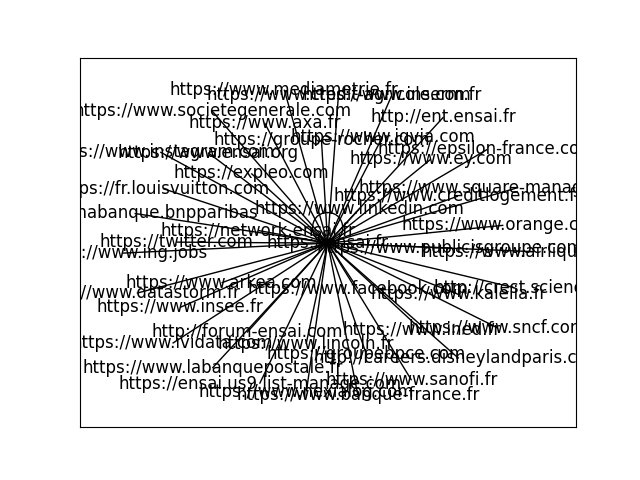
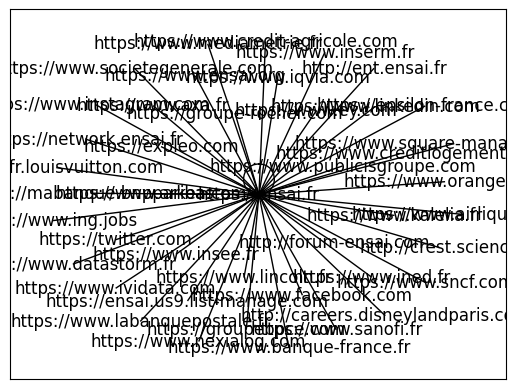
Correctif léger du code

diff --git a/visualisation/graphe_function.py b/visualisation/graphe_function.py
@@ -28,4 +28,4 @@ def create_graphe(graphe):
     pos = nx.spring_layout(graphe, seed=225)
     nx.draw_networkx(graphe, pos, node_shape = 's', node_color="None", with_labels=False)
     nx.draw_networkx_labels(graphe, pos, labels)    
-    plt.savefig('graphe.png', format='png')
+    plt.savefig('graphe.png', bbox_inches='tight', pad_inches=0, format='png')
